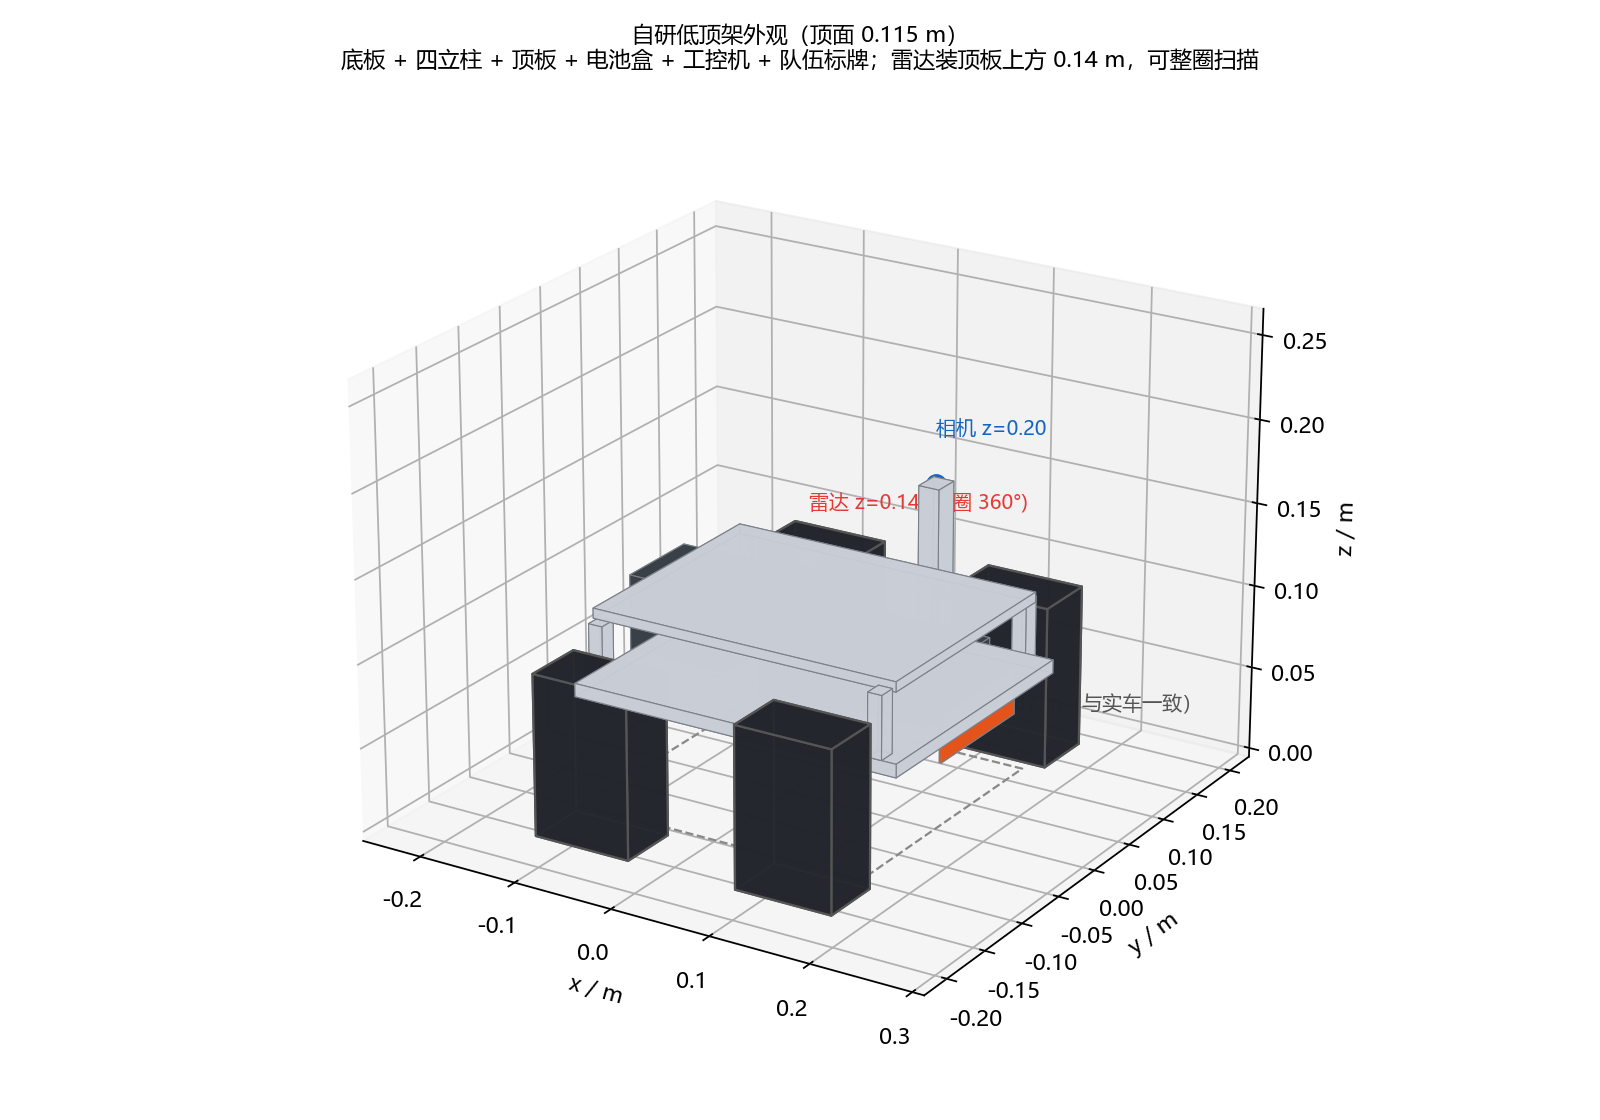
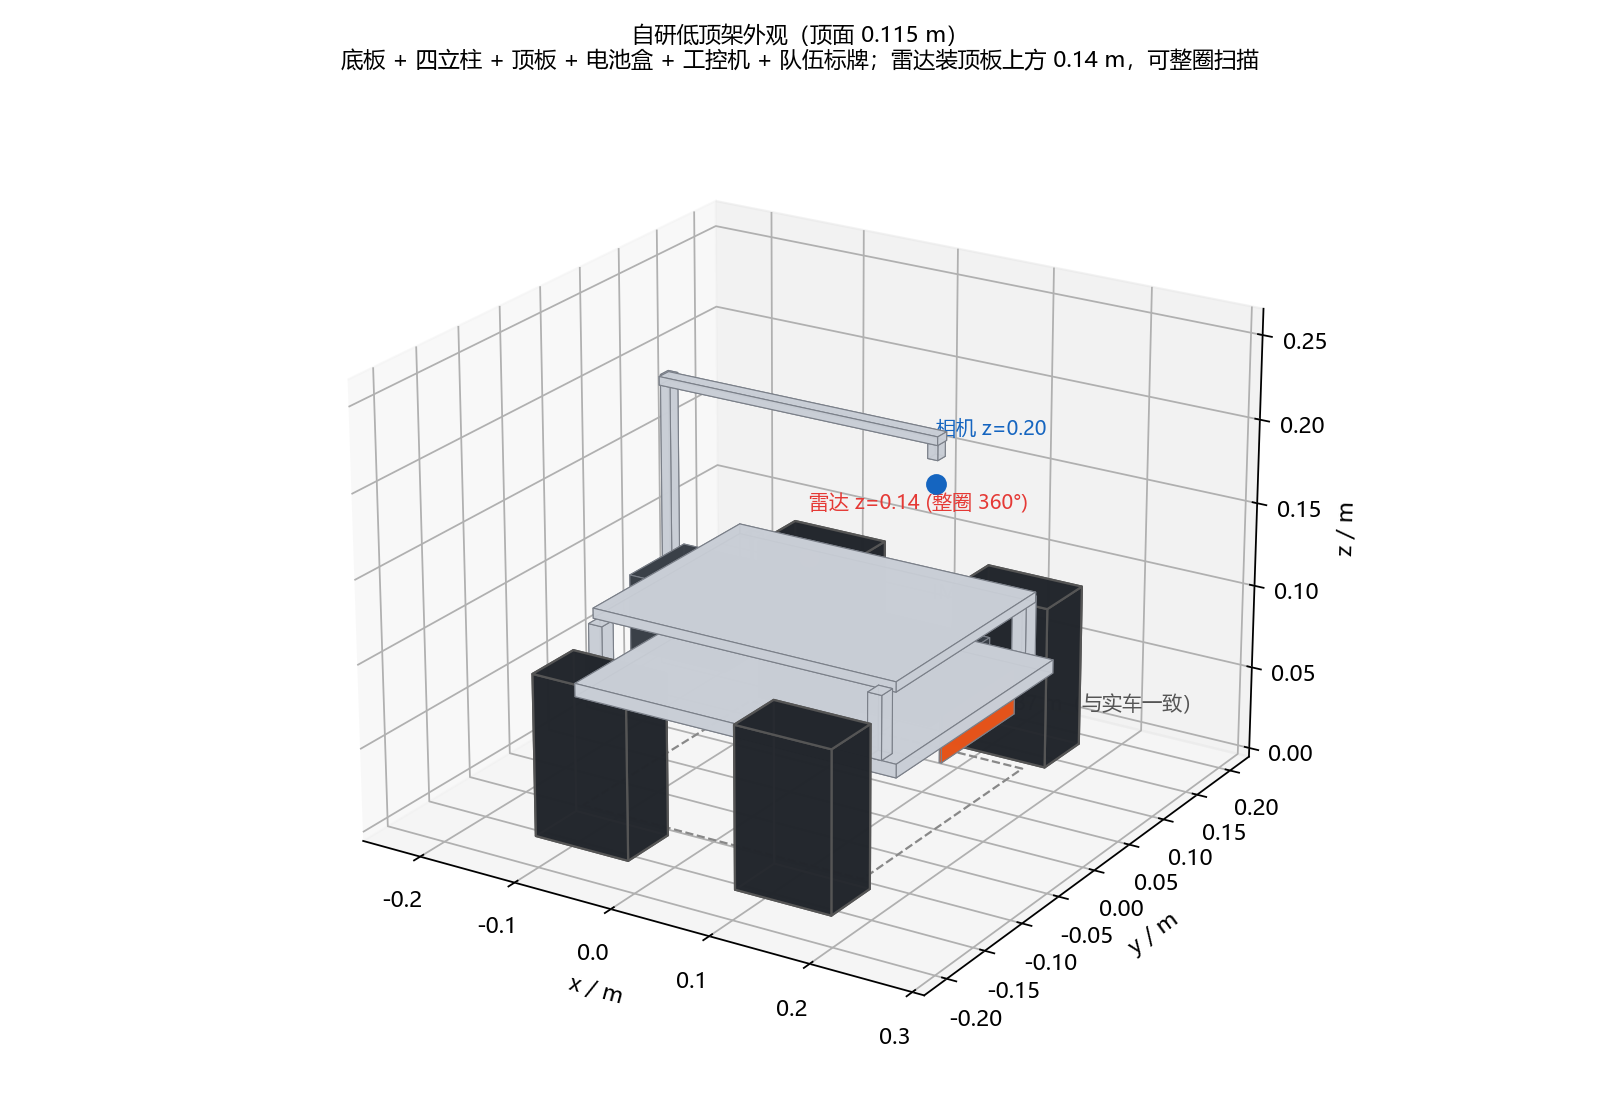
相机支架改后方立柱+悬臂: 原来挡雷达正前方, 是巡航 2 站失败的根因 (17/17 恢复)
问题 (用户发现): 原先的相机立柱 cam_post 是 20x20mm、z 0.115~0.200, 而雷达扫描平面
在 z=0.14 —— 立柱**穿过扫描平面且正在雷达正前方 12.9 cm**:
  * 挡住正前方约 ±4.8° (约 9°), 这些光束返回 ~0.13 m
  * 该回波落在车体自己的 footprint 内 (车头到 0.193), 于是局部代价地图把
    "正前方 13 cm" 标成障碍 -> 贴边航点更容易被 DWA 判为不可行

修法: 立柱挪到**雷达后方** 0.145 m 处 (只挡后方 ±2°, 车尾方向对前进与 AMCL 无影响),
再用悬臂 (z=0.2265, 在扫描平面上方) 把相机往前吊到原安装位。
复核结果: 除雷达自身外, 没有任何部件穿过 z=0.14 扫描平面。
相机安装位不变 (0.14914, -0.000497, 0.19998) -> 识别点位/路线不用重算。

验收 (同一形态, 只改支架): **通过 9 项 / 失败 1 项**
  **巡航 17/17** (原 15/17) · 雷达位姿 0.6mm · 定位 1.34cm · 车道合规 0/20935 帧 ·
  倒车入库 0.0131m/0.56° · 通行闸 放行2次误拦0 + 强制红灯停到超时 · 红绿灯 6/6 ·
  车牌 3/3 · 双通道 5/5
只剩立牌识别 (1/5): 视觉模型还是按旧立牌训练的, 待重训 (已规划)。

Changed region(s): [[0.4062, 0.3125, 0.5938, 0.5312]]

diff --git a/src/competition_robot/scripts/gen_robot.py b/src/competition_robot/scripts/gen_robot.py
@@ -263,7 +263,14 @@ def build(params):
         part('battery',   '0.100 0.070 0.045', '-0.090 0 0.0945', 'chassis')
         part('pc',        '0.120 0.080 0.030', '0.115 0 0.0870', 'chassis')
         part('label',     '0.002 0.100 0.028', '0.1925 0 0.0700', 'label')
-        part('cam_post',  '0.020 0.020 0.085', '0.1491 0 0.1575')
+        # ★ 相机支架: 立柱放**雷达后方**, 再用悬臂往前吊 —— 不能像原来那样在前面
+        #   竖直立柱: 相机在 z=0.20、雷达扫描平面在 z=0.14, 立柱必然穿过扫描平面,
+        #   会在**正前方**挡住约 ±5° 并返回 ~0.13 m (落在车体自己的 footprint 里,
+        #   被局部代价地图当成"正前方有障碍")。现在立柱在雷达后方 0.145 m 处,
+        #   只挡到后方 ±2° (车尾方向, 对前进与 AMCL 都无影响), 悬臂整体在扫描平面上方。
+        part('cam_mast',  '0.010 0.010 0.115', '-0.1250 0 0.1725')
+        part('cam_arm',   '0.285 0.012 0.005', '0.0120 0 0.2265')
+        part('cam_drop',  '0.010 0.010 0.014', '0.1490 0 0.2220')
     out.append('    <collision>\n'
                '      <origin xyz="%s" rpy="0 0 0"/>\n'
                '      <geometry><box size="%s %s %s"/></geometry>\n'
